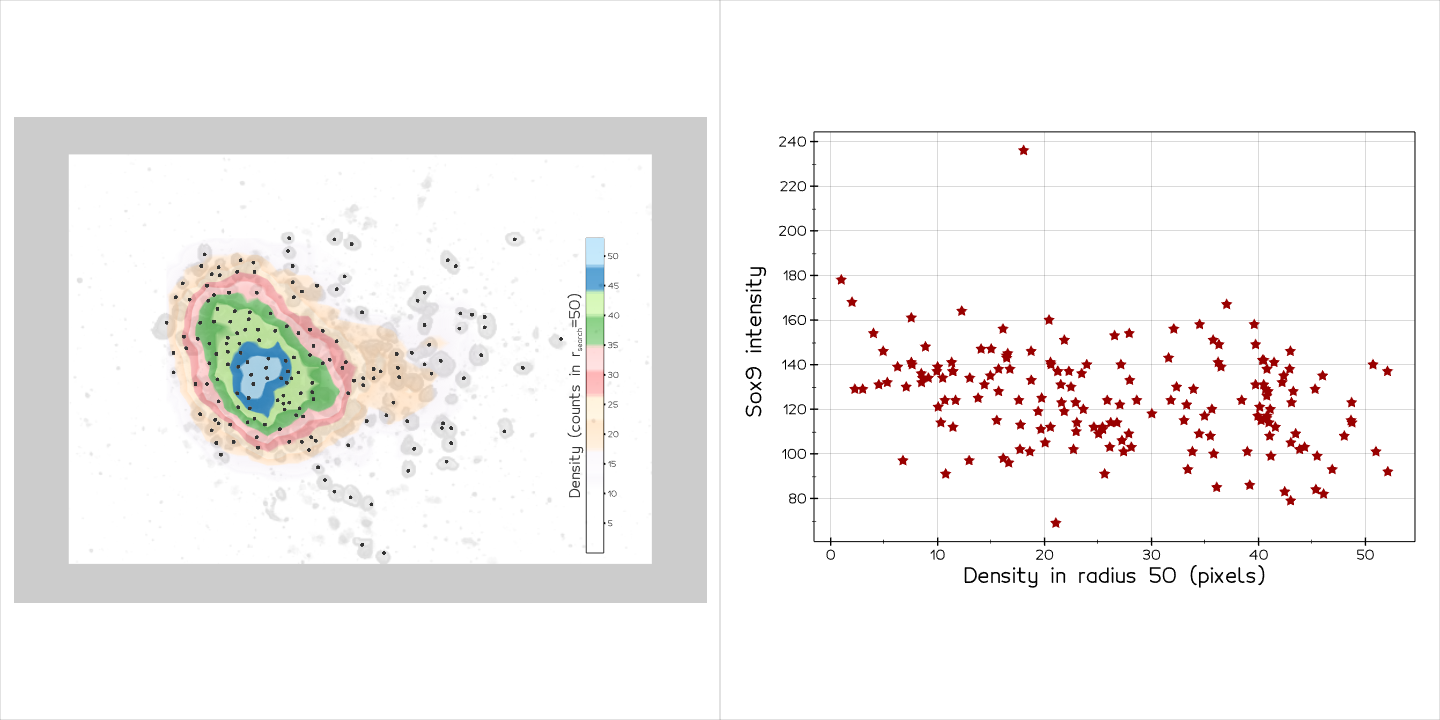
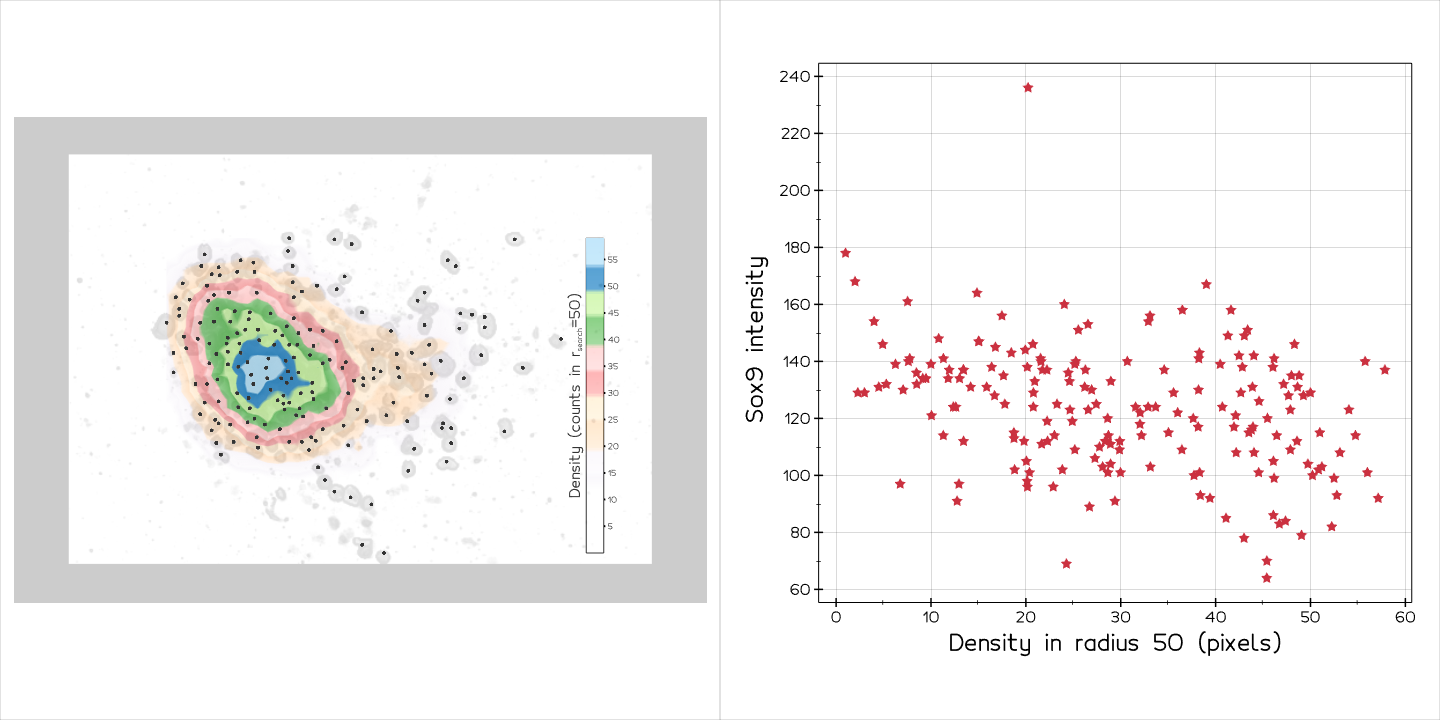
upgrade

diff --git a/analyse_density.py b/analyse_density.py
@@ -14,13 +14,12 @@ radius = 50 # pixels
 
 plt1 = PointPlotter(namein, nameout, init=nameout)
 plt1.point_color = 'red5'
-plt1.show(mode=7, zoom='tight').close()
+plt1.show(zoom='tight').close()
 
 # Analysis ################################
 settings.enable_default_keyboard_callbacks = True
 plt2 = Plotter(N=2, sharecam=False)
 pts, dens, dens_array = plt1.compute_density(radius)
-dens.pipeline.show()
 intensities = plt1.get_intensities()
 fig = plot(
     dens_array, intensities,
@@ -28,7 +27,8 @@ fig = plot(
     xtitle=f"Density in radius {radius} (pixels)",
     ytitle="Sox9 intensity",
     marker="*",   # marker style
-    mc="dr",      # marker color
+    mc="red4",    # marker color
+    aspect=1/1,
 )
 plt2.at(0).show(pts, dens, plt1.pic.alpha(0.2), zoom='tight')
 plt2.at(1).show(fig, zoom='tight')
